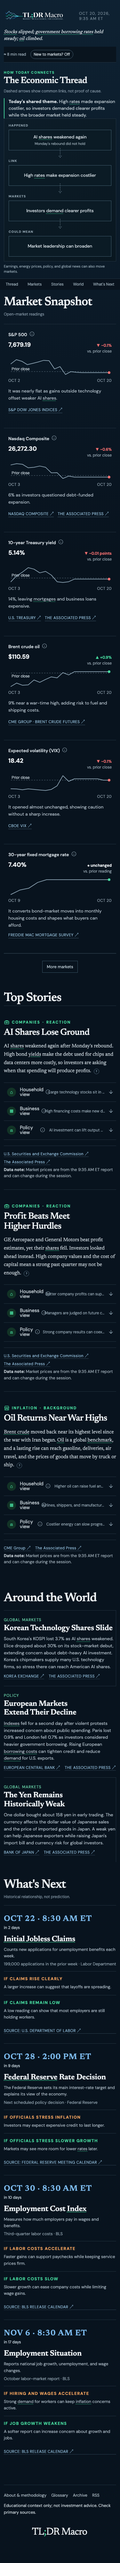
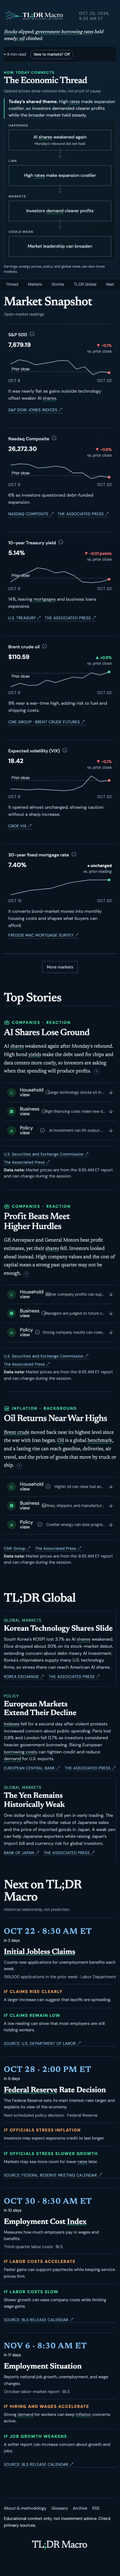
Rename global and upcoming sections

diff --git a/app/page.tsx b/app/page.tsx
@@ -16,7 +16,7 @@ export default function Home(){const summary=generateSummary(edition),positions=
   <EconomicThread/>
   <MarketSnapshot markets={edition.markets}/>
   <section className="stories" aria-labelledby="stories-title"><div className="section-heading stories-heading"><h2 id="stories-title">Top Stories</h2></div><div className="headline-list">{orderedHeadlines.map(headline=>{const targetId=headline.topic_tag==="inflation_reports"?"story-inflation":headline.topic_tag==="interest_rates_and_yields"?"story-rates":headline.topic_tag==="companies"?"story-background":undefined;return <HeadlineCard headline={headline} definitions={lensDefinitions} id={targetId} position={positions[headline.topic_tag]||"Background"} key={headline.headline}/>})}</div></section>
-  <section className="notable global-section" id="global" aria-labelledby="global-title"><div className="section-heading"><h2 id="global-title">Around the World</h2></div><div className="notable-list">{[...globalItems].filter(item=>item.tag!=="Company"&&(!("qualifies" in item)||item.qualifies!==false)).sort((a,b)=>b.importance_score-a.importance_score).map(item=>{const context="context" in item&&item.context&&!/^Developing as of/i.test(item.context)?item.context:"",significance=item.why_it_matters.replace(/^Why it matters:\s*/,""),body=`${item.what} ${context} ${significance}`.replace(/\s+/g," ").trim();return <article key={item.headline}><div className="notable-title"><div><small>{item.tag}</small><h3>{item.headline}</h3></div></div><p><AnnotatedText text={body}/></p><div className="global-sources">{item.sources.map(source=><a href={source.href} target="_blank" rel="noreferrer" key={source.href}>{source.name} ↗</a>)}</div></article>})}</div></section>
-  <section className="watch" id="next" aria-labelledby="watch-title"><div className="section-heading"><h2 id="watch-title">What&apos;s Next</h2><p>Historical relationship, not prediction.</p></div><EventCalendar events={edition.calendar} published={edition.updated_at}/></section>
+  <section className="notable global-section" id="global" aria-labelledby="global-title"><div className="section-heading"><h2 id="global-title">TL;DR Global</h2></div><div className="notable-list">{[...globalItems].filter(item=>item.tag!=="Company"&&(!("qualifies" in item)||item.qualifies!==false)).sort((a,b)=>b.importance_score-a.importance_score).map(item=>{const context="context" in item&&item.context&&!/^Developing as of/i.test(item.context)?item.context:"",significance=item.why_it_matters.replace(/^Why it matters:\s*/,""),body=`${item.what} ${context} ${significance}`.replace(/\s+/g," ").trim();return <article key={item.headline}><div className="notable-title"><div><small>{item.tag}</small><h3>{item.headline}</h3></div></div><p><AnnotatedText text={body}/></p><div className="global-sources">{item.sources.map(source=><a href={source.href} target="_blank" rel="noreferrer" key={source.href}>{source.name} ↗</a>)}</div></article>})}</div></section>
+  <section className="watch" id="next" aria-labelledby="watch-title"><div className="section-heading"><h2 id="watch-title">Next on TL;DR Macro</h2><p>Historical relationship, not prediction.</p></div><EventCalendar events={edition.calendar} published={edition.updated_at}/></section>
   <Footer/>
 </main>}

diff --git a/app/ReaderTools.tsx b/app/ReaderTools.tsx
@@ -1,3 +1,3 @@
 "use client";
 import {useEffect,useState} from "react";
-export default function ReaderTools(){const[newbie,setNewbie]=useState(false);useEffect(()=>{const timer=setTimeout(()=>{try{const value=localStorage.getItem("tldrm-newbie")==="true";setNewbie(value);document.documentElement.dataset.newbie=String(value)}catch{}},0);return()=>clearTimeout(timer)},[]);const toggle=()=>setNewbie(value=>{const next=!value;try{localStorage.setItem("tldrm-newbie",String(next));document.documentElement.dataset.newbie=String(next)}catch{}return next});return <div className="reader-tools"><span className="read-time">≈ 8 min read</span><button type="button" aria-pressed={newbie} onClick={toggle}>New to markets? {newbie?"On":"Off"}</button><nav aria-label="Sections"><a href="#thread-title">Thread</a><a href="#market-title">Markets</a><a href="#stories-title">Stories</a><a href="#global-title">World</a><a href="#watch-title">What&apos;s Next</a></nav></div>}
+export default function ReaderTools(){const[newbie,setNewbie]=useState(false);useEffect(()=>{const timer=setTimeout(()=>{try{const value=localStorage.getItem("tldrm-newbie")==="true";setNewbie(value);document.documentElement.dataset.newbie=String(value)}catch{}},0);return()=>clearTimeout(timer)},[]);const toggle=()=>setNewbie(value=>{const next=!value;try{localStorage.setItem("tldrm-newbie",String(next));document.documentElement.dataset.newbie=String(next)}catch{}return next});return <div className="reader-tools"><span className="read-time">≈ 8 min read</span><button type="button" aria-pressed={newbie} onClick={toggle}>New to markets? {newbie?"On":"Off"}</button><nav aria-label="Sections"><a href="#thread-title">Thread</a><a href="#market-title">Markets</a><a href="#stories-title">Stories</a><a href="#global-title">TL;DR Global</a><a href="#watch-title">Next</a></nav></div>}

diff --git a/DATA_REPORT.md b/DATA_REPORT.md
@@ -1,6 +1,6 @@
 # Data Report
 
-Generated: 2026-10-20T14:26:32.469Z
+Generated: 2026-10-20T14:57:02.231Z
 
 | Instrument | Provider | Series | Frequency | Latest timestamp | Baseline | Chart points | Status |
 |---|---|---|---|---|---|---:|---|

diff --git a/VERIFY_REPORT.md b/VERIFY_REPORT.md
@@ -1,6 +1,6 @@
 # Verification report
 
-Generated: 2026-10-20T14:26:29.901Z
+Generated: 2026-10-20T14:56:59.072Z
 Edition: 2026-10-20
 Status: PASSED
 
